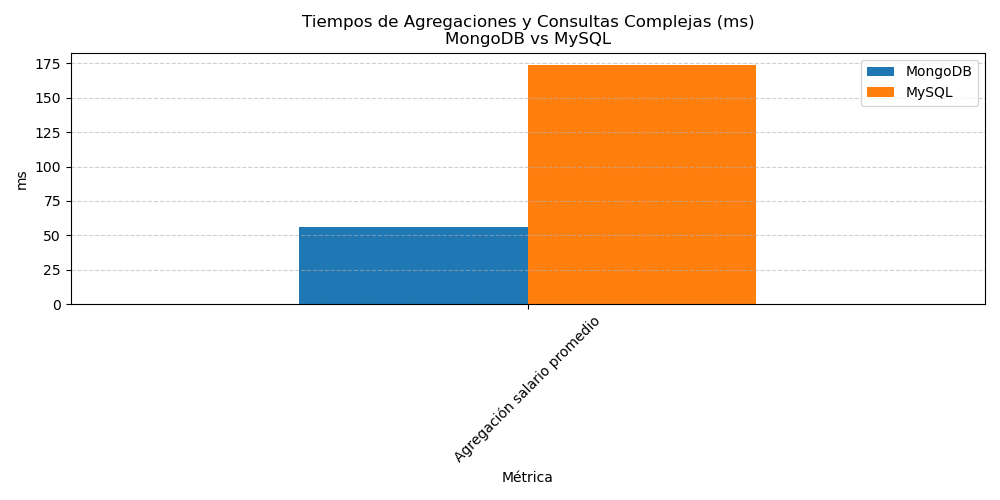
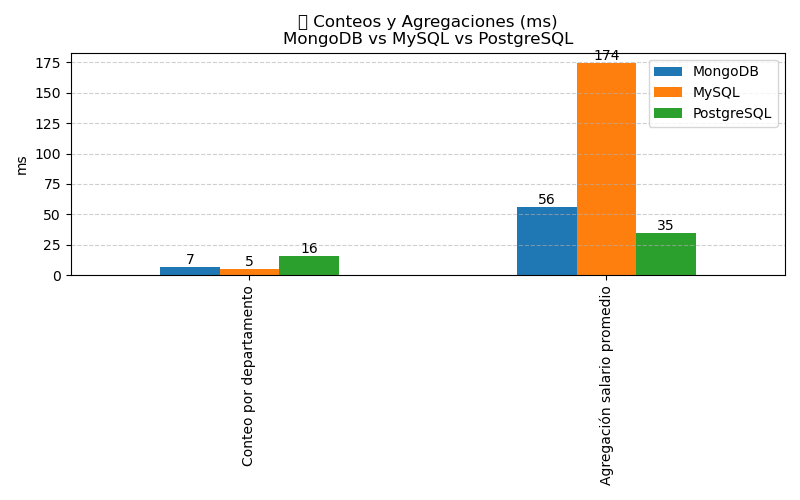
añadidios resultados de las benchmarks

diff --git a/plotting.py b/plotting.py
@@ -35,6 +35,8 @@ for container in ax1.containers:
 plt.tight_layout()
 plt.show()
 plt.close(fig1)
+fig1.savefig("./insertvel.png")
+
 
 # --- Gráfico 2: Consultas simples ---
 fig2, ax2 = plt.subplots(figsize=(8, 5))
@@ -47,6 +49,7 @@ for container in ax2.containers:
 plt.tight_layout()
 plt.show()
 plt.close(fig2)
+fig2.savefig("./consultas_simples.png")
 
 # --- Gráfico 3: Conteos y agregaciones ---
 fig3, ax3 = plt.subplots(figsize=(8, 5))
@@ -59,6 +62,7 @@ for container in ax3.containers:
 plt.tight_layout()
 plt.show()
 plt.close(fig3)
+fig3.savefig("./agregacion_salario.png")
 
 # --- Gráfico 4: JSON y consultas complejas ---
 fig4, ax4 = plt.subplots(figsize=(8, 5))
@@ -71,3 +75,4 @@ for container in ax4.containers:
 plt.tight_layout()
 plt.show()
 plt.close(fig4)
+fig4.savefig("./json.png")

diff --git a/readme.md b/readme.md
@@ -3,3 +3,5 @@
 ![Inserts](./insertvel.png)
 ![Consutas simples](./consultas_simples.png)
 ![agregacion salario](./agregacion_salario.png)
+![json](./json.png)
+
